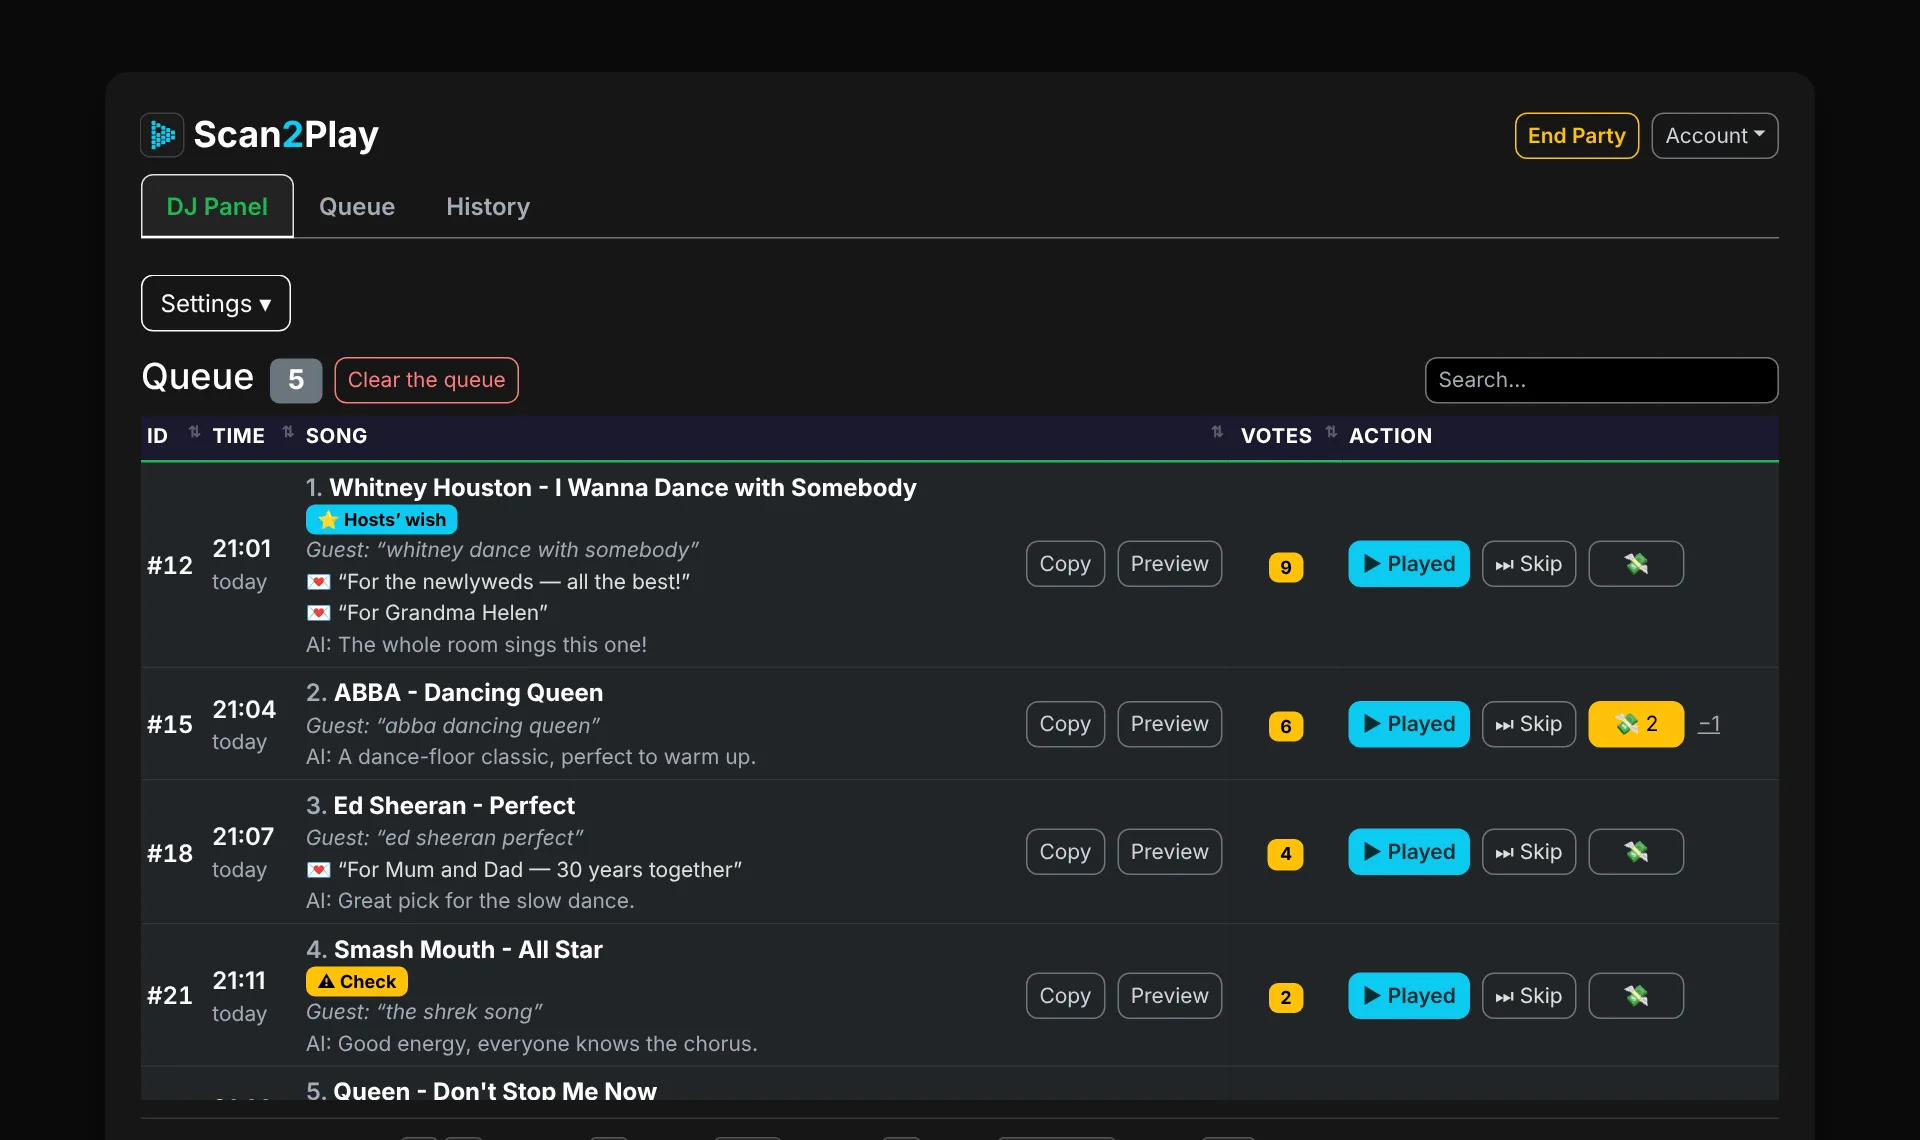
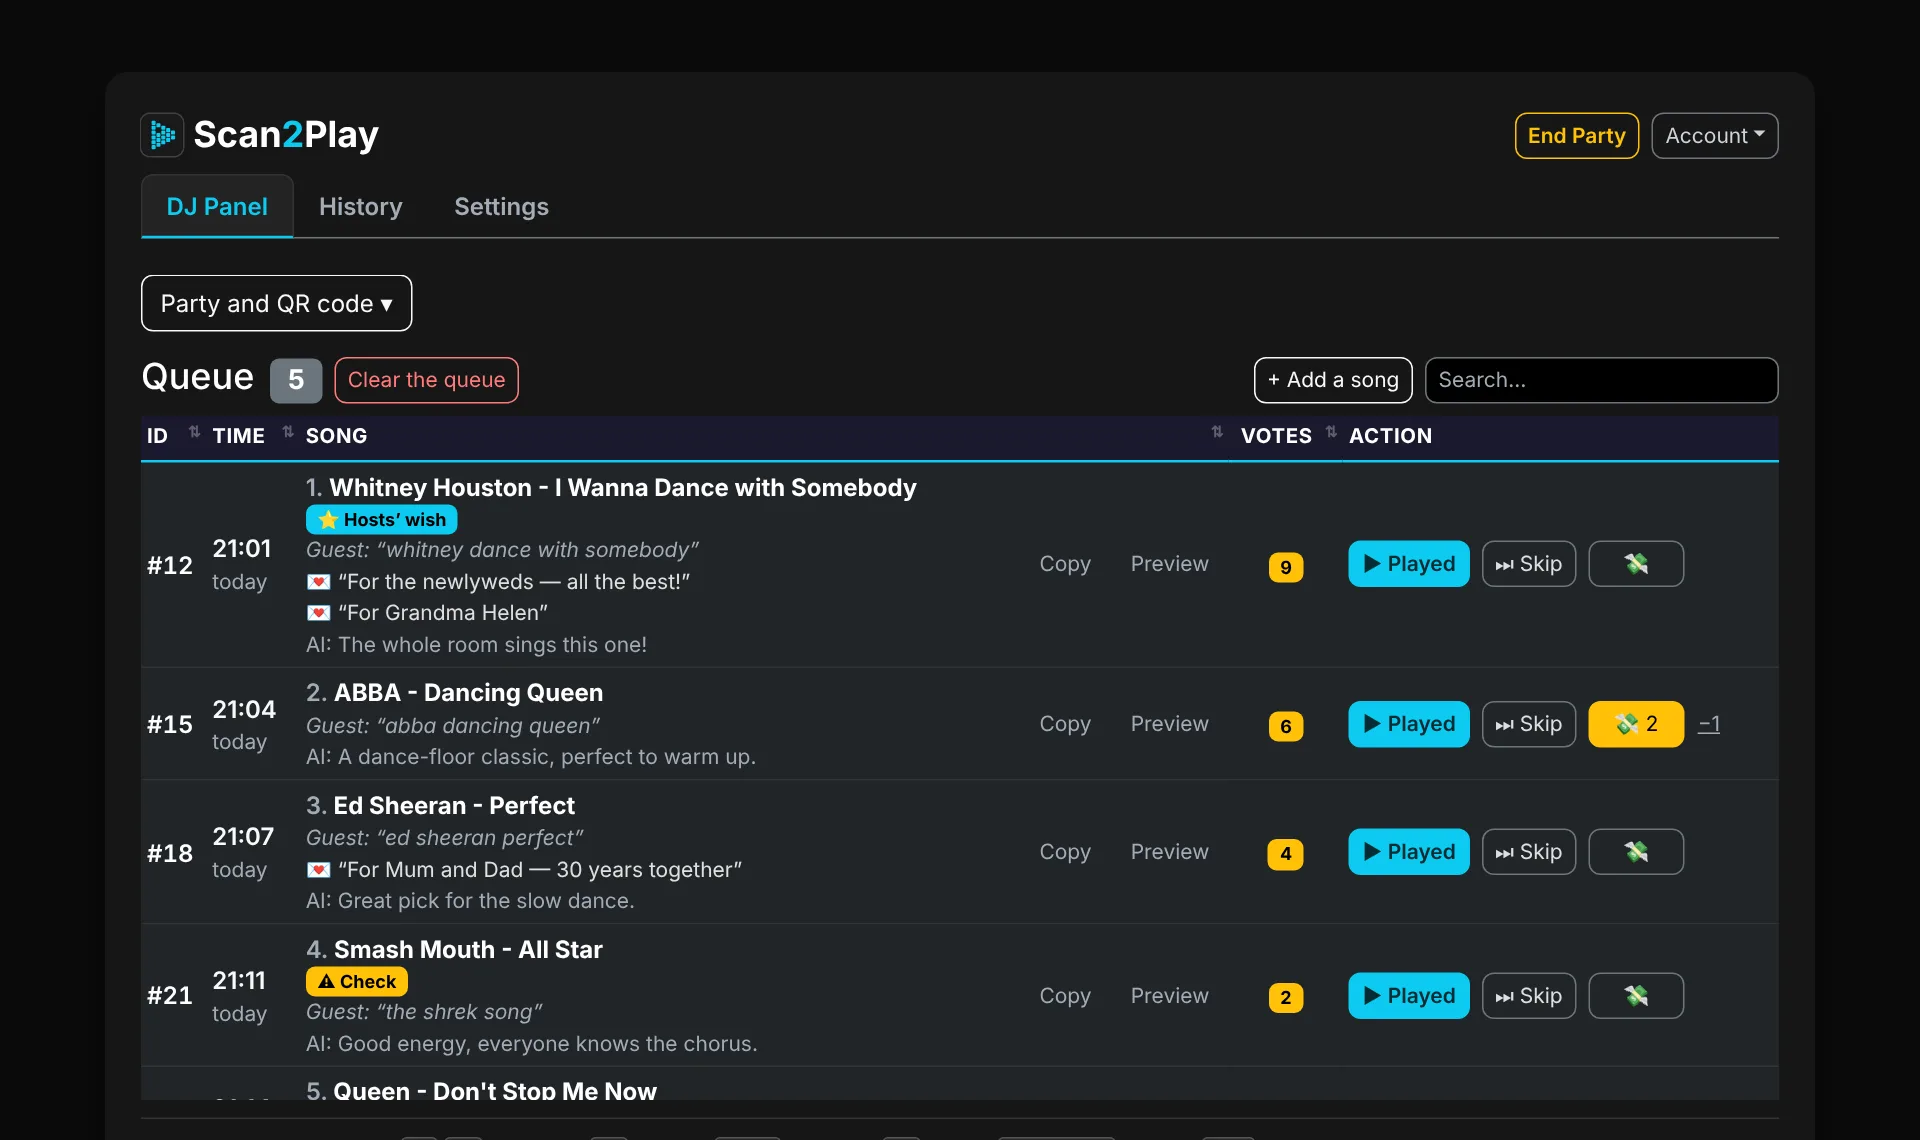
Staff page: 44 px "Uprawnienia po kolei"; landing pictures made again
- "Uprawnienia po kolei" of an unfolded person on "Obsluga" was 21 px
  high on a phone; staff-page-way-back checks the whole page again
- the landing page's pictures of the panel (screenshots.py) show the
  new tabs, the cyan accent and no "Wiecej"; the guest's are unchanged

Claude-Session: https://claude.ai/code/session_01FoZgFyjPuXryGoY3PkaHd3

diff --git a/src/test/browser/scenarios/design.js b/src/test/browser/scenarios/design.js
@@ -244,10 +244,9 @@
             oneHeading(t, 'settings');
             const settings = document.getElementById('backToSettings');
             t.step('back to the settings of the same party', settings && settings.getAttribute('href'), '/dj/settings?party=HARN1');
-            t.step('the heading, its tabs and the way back: nothing to tap lower than 44 px; nothing wider than the screen',
-                [tooSmall(document.querySelector('.s2p-account-bar')).concat(tooSmall(document.getElementById('djTabBar')),
-                    settings.getBoundingClientRect().height < 44 - 0.5 ? ['backToSettings'] : []),
-                 document.documentElement.scrollWidth <= document.documentElement.clientWidth], [[], true]);
+            // the whole page: "Uprawnienia po kolei" of an unfolded person was 21 px (the review of 2026-10-28)
+            t.step('nothing to tap lower than 44 px, "Uprawnienia po kolei" too; nothing wider than the screen',
+                [tooSmall(document.body), document.documentElement.scrollWidth <= document.documentElement.clientWidth], [[], true]);
         }
     });
 

diff --git a/src/main/resources/static/css/app.css b/src/main/resources/static/css/app.css
@@ -234,7 +234,8 @@ body {
     .dj-tabbar .nav-link { min-height: 44px; display: flex; align-items: center; }
     .dropdown-item { min-height: 44px; display: flex; align-items: center; }
     /* a line of text one taps: "Masz zaproszenie…? Dołącz →", "Strona główna" on an error page, "Chcesz taką imprezę u siebie?" */
-    .s2p-staff-login > summary { padding-block: 0.75rem; }
+    .s2p-staff-login > summary,
+    .s2p-staff-perms > summary { padding-block: 0.75rem; }
     .s2p-panel-bar > summary { min-height: 44px; }
     .s2p-staff-perms .form-check { min-height: 44px; display: flex; align-items: center; gap: 0.5rem; }
     .page-status .card a:not(.btn) { display: inline-block; padding-block: 0.75rem; }

diff --git a/SESSION_HANDOFF.md b/SESSION_HANDOFF.md
@@ -40,10 +40,9 @@ Working agreements: `CLAUDE.md`. Architecture and rules: `PROJECT_CONTEXT.md`. R
    Historia | Ustawienia", "Impreza i kod QR", the card's gaps; then items 8–10 and 12 and the owner's own: the rows of "Więcej" off the
    panel (the settings were in two places; the network's limit near is now a warning above the queue), the print's editor in the
    panel's colours, from 1400 px the unfolded settings beside the queue, "Kopiuj" / "Podejrzyj" quiet on a wide screen, "Panel jako
-   aplikacja" under an empty queue on a phone. Waiting for the owner: item 11 "Moje imprezy" (a party is one per organiser and the
-   history is purged after 30 days — a list of past evenings needs a model of its own: a question, not a layout). Found on the way:
-   "Uprawnienia po kolei" on "Obsługa" is 21 px high on a phone. The landing page's pictures (`screenshots.py`) show the old green tab
-   and "Więcej".
+   aplikacja" under an empty queue on a phone. Then "Uprawnienia po kolei" on "Obsługa" 44 px on a phone and the landing page's
+   pictures made again (`screenshots.py`). Item 11 "Moje imprezy": not now (the owner, 2026-10-28 — a party is one per organiser and the
+   history is purged after 30 days; a list of past evenings would need a model of its own, worth it once DJs ask).
 
 ## Later (not now)
 
